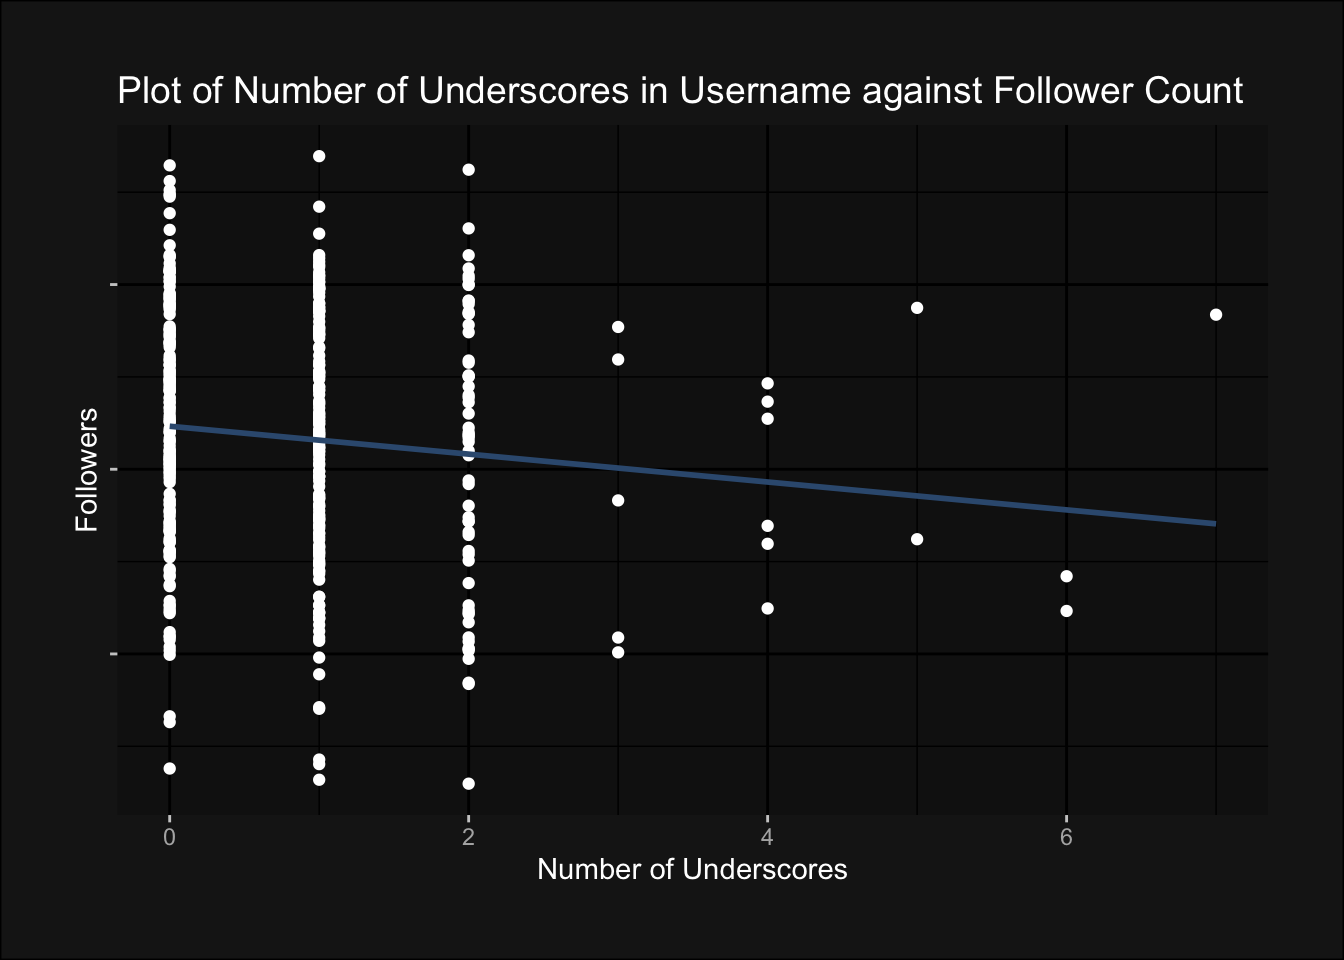
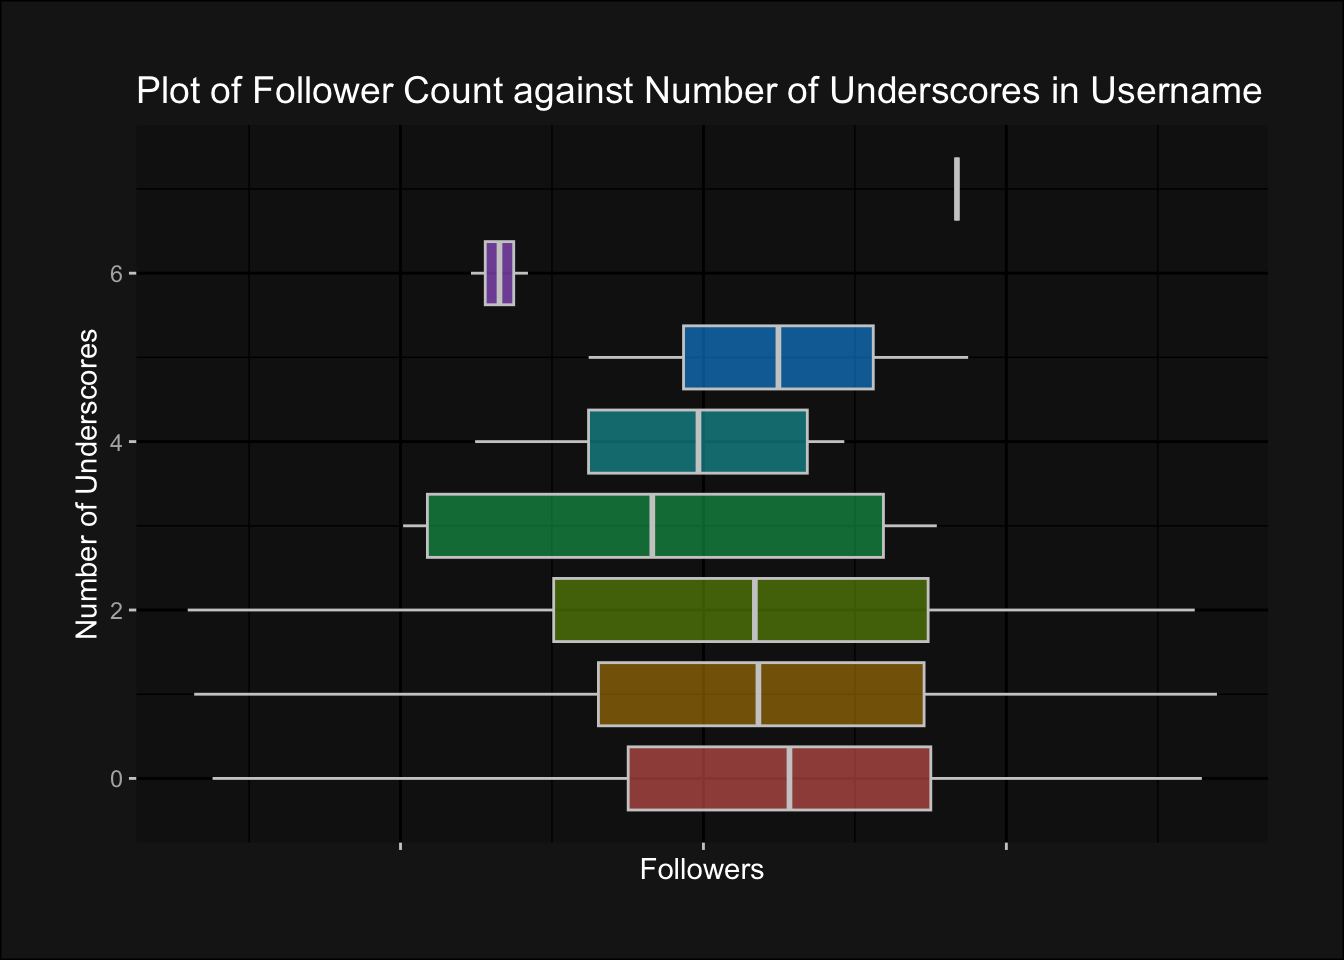
Updates

diff --git a/docs/index.html b/docs/index.html
@@ -90,7 +90,7 @@ ul.task-list li input[type="checkbox"] {
   </li>  
   <li class="nav-item">
     <a class="nav-link" href="./w1w9.html" rel="" target="">
- <span class="menu-text">Week 1 to 9</span></a>
+ <span class="menu-text">Week 1 to 12</span></a>
   </li>  
   <li class="nav-item">
     <a class="nav-link" href="./fun.html" rel="" target="">
@@ -186,6 +186,7 @@ ul.task-list li input[type="checkbox"] {
 <p><img src="index_files/figure-html/unnamed-chunk-3-1.png" class="img-fluid" width="672"></p>
 </div>
 </div>
+<p>Rather than short, snappy or long, winding usernames, we can observe that usernames that are medium length are not only the most popular, but also the most successful usernames.</p>
 </section>
 <section id="digits-and-special-characters" class="level4">
 <h4 class="anchored" data-anchor-id="digits-and-special-characters">Digits and Special Characters</h4>
@@ -194,30 +195,48 @@ ul.task-list li input[type="checkbox"] {
 <ol type="1">
 <li>Numbers</li>
 </ol>
-<div class="cell">
-<div class="cell-output-display">
-<p><img src="index_files/figure-html/unnamed-chunk-4-1.png" class="img-fluid" width="672"></p>
-</div>
-</div>
-<ol start="2" type="1">
-<li>Underscores</li>
-</ol>
 <div class="tabset-margin-container"></div><div class="panel-tabset">
 <ul class="nav nav-tabs" role="tablist"><li class="nav-item" role="presentation"><a class="nav-link active" id="tabset-1-1-tab" data-bs-toggle="tab" data-bs-target="#tabset-1-1" role="tab" aria-controls="tabset-1-1" aria-selected="true">Box Plot</a></li><li class="nav-item" role="presentation"><a class="nav-link" id="tabset-1-2-tab" data-bs-toggle="tab" data-bs-target="#tabset-1-2" role="tab" aria-controls="tabset-1-2" aria-selected="false">Line Plot</a></li></ul>
 <div class="tab-content">
 <div id="tabset-1-1" class="tab-pane active" role="tabpanel" aria-labelledby="tabset-1-1-tab">
 <div class="cell">
 <div class="cell-output-display">
+<p><img src="index_files/figure-html/unnamed-chunk-4-1.png" class="img-fluid" width="672"></p>
+</div>
+</div>
+<p>The differences in range between the box plot for each group of a number of digits inform us that the sample sizes differ greatly, and have possibly heavily skewed the medians for the groups. Hence, we can look at a line plot instead on the next tab.</p>
+</div>
+<div id="tabset-1-2" class="tab-pane" role="tabpanel" aria-labelledby="tabset-1-2-tab">
+<div class="cell">
+<div class="cell-output-display">
 <p><img src="index_files/figure-html/unnamed-chunk-5-1.png" class="img-fluid" width="672"></p>
 </div>
 </div>
+<p>Observing the almost straight line of best fit, we can now conclude that the number of digits in a username has little bearing on the number of followers.</p>
 </div>
-<div id="tabset-1-2" class="tab-pane" role="tabpanel" aria-labelledby="tabset-1-2-tab">
+</div>
+</div>
+<ol start="2" type="1">
+<li>Underscores</li>
+</ol>
+<div class="tabset-margin-container"></div><div class="panel-tabset">
+<ul class="nav nav-tabs" role="tablist"><li class="nav-item" role="presentation"><a class="nav-link active" id="tabset-2-1-tab" data-bs-toggle="tab" data-bs-target="#tabset-2-1" role="tab" aria-controls="tabset-2-1" aria-selected="true">Box Plot</a></li><li class="nav-item" role="presentation"><a class="nav-link" id="tabset-2-2-tab" data-bs-toggle="tab" data-bs-target="#tabset-2-2" role="tab" aria-controls="tabset-2-2" aria-selected="false">Line Plot</a></li></ul>
+<div class="tab-content">
+<div id="tabset-2-1" class="tab-pane active" role="tabpanel" aria-labelledby="tabset-2-1-tab">
 <div class="cell">
 <div class="cell-output-display">
 <p><img src="index_files/figure-html/unnamed-chunk-6-1.png" class="img-fluid" width="672"></p>
 </div>
 </div>
+<p>The box plots for this comparison is noticeably skewed by small sample size as well, as observed by the much smaller box (ie. the singular account) with seven underscores and the few accounts with six. In this case, comparing medians is again inaccurate; we can instead look to a line plot in the next tab.</p>
+</div>
+<div id="tabset-2-2" class="tab-pane" role="tabpanel" aria-labelledby="tabset-2-2-tab">
+<div class="cell">
+<div class="cell-output-display">
+<p><img src="index_files/figure-html/unnamed-chunk-7-1.png" class="img-fluid" width="672"></p>
+</div>
+</div>
+<p>This line plot now reveals the number of underscores in a username to be inversely correlated to their follower count.</p>
 </div>
 </div>
 </div>
@@ -226,71 +245,70 @@ ul.task-list li input[type="checkbox"] {
 </ol>
 <div class="cell">
 <div class="cell-output-display">
-<p><img src="index_files/figure-html/unnamed-chunk-7-1.png" class="img-fluid" width="672"></p>
+<p><img src="index_files/figure-html/unnamed-chunk-8-1.png" class="img-fluid" width="672"></p>
 </div>
 </div>
+<p>As for periods, the box plots for each group is similar, but usernames with no periods have a marginally higher median follower count.</p>
+<p>We can conclude, in this section, that a medium length username without underscores or periods are likely to be popular usernames. The next section will focus on the actual words used in usernames.</p>
 </section>
 <section id="keywords" class="level4">
 <h4 class="anchored" data-anchor-id="keywords">Keywords</h4>
-<p>Lastly, how accurately one’s username portrays their idol persona may also play a part in accruing followers. I hence look at several variations of showing one’s identity in usernames.</p>
+<p>How accurately one’s username portrays their idol persona may also play a part in accruing followers. I hence look at several variations of showing one’s identity in usernames.</p>
 <ol type="1">
-<li>Legit-ness: The inclusion of “official”</li>
-</ol>
-<div class="cell">
-<div class="cell-output-display">
-<p><img src="index_files/figure-html/unnamed-chunk-9-1.png" class="img-fluid" width="672"></p>
-</div>
-</div>
-<ol start="2" type="1">
-<li>Loyalty: The inclusion of one’s group name</li>
+<li>Legitimacy: The inclusion of “official”</li>
 </ol>
 <div class="cell">
 <div class="cell-output-display">
 <p><img src="index_files/figure-html/unnamed-chunk-10-1.png" class="img-fluid" width="672"></p>
 </div>
 </div>
-<ol start="3" type="1">
-<li>Legend: The inclusion of one’s stage name</li>
+<p>Adding the word “official” to one’s username may help separate an idol’s account from their fanpages, but it remains an unpopular choice overall, possibly due to more robust verification methods like the check mark. Its unnecessariness may render usernames without the addition of “official” more popular.</p>
+<ol start="2" type="1">
+<li>Loyalty: The inclusion of one’s group name</li>
 </ol>
 <div class="cell">
 <div class="cell-output-display">
 <p><img src="index_files/figure-html/unnamed-chunk-11-1.png" class="img-fluid" width="672"></p>
 </div>
 </div>
-<p>Perhaps, the reason why these identity features have little effect on follower counts is because idols simply do not need their usernames to express themselves. Rather, they are more well known by their real life traits that then translate into online fame.</p>
-</section>
-</section>
-<section id="the-perfect-idol" class="level2">
-<h2 class="anchored" data-anchor-id="the-perfect-idol">The Perfect Idol</h2>
-<section id="gender-and-age" class="level4">
-<h4 class="anchored" data-anchor-id="gender-and-age">Gender and Age</h4>
-<div class="tabset-margin-container"></div><div class="panel-tabset">
-<ul class="nav nav-tabs" role="tablist"><li class="nav-item" role="presentation"><a class="nav-link active" id="tabset-2-1-tab" data-bs-toggle="tab" data-bs-target="#tabset-2-1" role="tab" aria-controls="tabset-2-1" aria-selected="true">Gender</a></li><li class="nav-item" role="presentation"><a class="nav-link" id="tabset-2-2-tab" data-bs-toggle="tab" data-bs-target="#tabset-2-2" role="tab" aria-controls="tabset-2-2" aria-selected="false">Age</a></li></ul>
-<div class="tab-content">
-<div id="tabset-2-1" class="tab-pane active" role="tabpanel" aria-labelledby="tabset-2-1-tab">
+<p>Similarly, one’s group name helps to highlight one’s band and differentiate from other celebrities who may share names, a fairly common occurrence in Korea. However, as observed, these have little effect on follower counts.</p>
+<ol start="3" type="1">
+<li>Legend: The inclusion of one’s stage name</li>
+</ol>
 <div class="cell">
 <div class="cell-output-display">
 <p><img src="index_files/figure-html/unnamed-chunk-12-1.png" class="img-fluid" width="672"></p>
 </div>
 </div>
-</div>
-<div id="tabset-2-2" class="tab-pane" role="tabpanel" aria-labelledby="tabset-2-2-tab">
+<p>Similarly, the median follower counts of idols who use or omit their stage names in their usernames are comparable.</p>
+<p>We can conclude the analysis of usernames with the finding that, still, the factors that affect follower counts the most seem to be username length and conciseness, with special characters being generally disfavoured or having no effect and extraneous words like “official” being superfluous additions that may hinder, rather than attract, gaining followers.</p>
+<p>Perhaps, the reason why these identity features have little effect on follower counts is because idols simply do not need their usernames to explicitly mention who they are. Rather, they are more well known by their real life traits that then translate into online fame.</p>
+</section>
+</section>
+<section id="the-perfect-idol" class="level2">
+<h2 class="anchored" data-anchor-id="the-perfect-idol">The Perfect Idol</h2>
+<p>We hence move on to analysing other characteristics to find out which ones translate to the most Instagram fame.</p>
+<section id="gender-age-and-seniority" class="level4">
+<h4 class="anchored" data-anchor-id="gender-age-and-seniority">Gender, Age, and Seniority</h4>
+<div class="tabset-margin-container"></div><div class="panel-tabset">
+<ul class="nav nav-tabs" role="tablist"><li class="nav-item" role="presentation"><a class="nav-link active" id="tabset-3-1-tab" data-bs-toggle="tab" data-bs-target="#tabset-3-1" role="tab" aria-controls="tabset-3-1" aria-selected="true">Gender</a></li><li class="nav-item" role="presentation"><a class="nav-link" id="tabset-3-2-tab" data-bs-toggle="tab" data-bs-target="#tabset-3-2" role="tab" aria-controls="tabset-3-2" aria-selected="false">Age</a></li></ul>
+<div class="tab-content">
+<div id="tabset-3-1" class="tab-pane active" role="tabpanel" aria-labelledby="tabset-3-1-tab">
 <div class="cell">
 <div class="cell-output-display">
 <p><img src="index_files/figure-html/unnamed-chunk-13-1.png" class="img-fluid" width="672"></p>
 </div>
 </div>
+<p>Despite there being less male idols on Instagram, they have much higher median numbers of followers. This follows overall industry trends where fans of male artists generally outnumber female artists’, and male groups attain higher sales figures, whether in albums, concert tickets, or merchandise (Dong, 2020).</p>
 </div>
-</div>
-</div>
-<div class="cell">
-<div class="cell-output-display">
-<p><img src="index_files/figure-html/unnamed-chunk-14-1.png" class="img-fluid" width="672"></p>
-</div>
-</div>
+<div id="tabset-3-2" class="tab-pane" role="tabpanel" aria-labelledby="tabset-3-2-tab">
 <div class="cell">
 <div class="cell-output-display">
 <p><img src="index_files/figure-html/unnamed-chunk-15-1.png" class="img-fluid" width="672"></p>
+</div>
+</div>
+<p>The K-pop industry, having been steadily growing since its beginning in 1992, now has musicians across a wide age range (Romano, 2018). Although the few idols with the most followers overall are generally in the middle of the age range, the saturation in that age range with many more idols with much lower follower counts mean that generally, the oldest idols are still more likely to have more followers.</p>
+</div>
 </div>
 </div>
 <div class="cell">
@@ -298,14 +316,45 @@ ul.task-list li input[type="checkbox"] {
 <p><img src="index_files/figure-html/unnamed-chunk-16-1.png" class="img-fluid" width="672"></p>
 </div>
 </div>
+<p>Indeed, a similar trend can be observed between follower counts and seniority as an idol, where the longer the average idol has been active in the industry, the higher their follower counts.</p>
+<p>Interestingly, a high point and dip can be observed consecutively between from 0 to 3 years of seniority. This can be attributed to the impact of the COVID-19 pandemic on the industry, where a slump severely impacted and postponed most idols’ debuts. Subsequently, these long-awaited debuts received much greater attention, represented in their high numbers of followers.</p>
+</section>
+<section id="nationality" class="level4">
+<h4 class="anchored" data-anchor-id="nationality">Nationality</h4>
 <div class="cell">
 <div class="cell-output-display">
 <p><img src="index_files/figure-html/unnamed-chunk-17-1.png" class="img-fluid" width="672"></p>
 </div>
 </div>
+<p>People also come from a diversity of locations to South Korea seek a career in their booming music industry. While South Korean idols are the majority, their foreign counterparts may stand out more precisely because they are a minority; their multilingual statuses as global idols garner them significantly more followers, especially those from their home countries, than the average South Korean idol.</p>
+</section>
+<section id="company" class="level4">
+<h4 class="anchored" data-anchor-id="company">Company</h4>
+<div class="tabset-margin-container"></div><div class="panel-tabset">
+<ul class="nav nav-tabs" role="tablist"><li class="nav-item" role="presentation"><a class="nav-link active" id="tabset-4-1-tab" data-bs-toggle="tab" data-bs-target="#tabset-4-1" role="tab" aria-controls="tabset-4-1" aria-selected="true">The Big 4</a></li><li class="nav-item" role="presentation"><a class="nav-link" id="tabset-4-2-tab" data-bs-toggle="tab" data-bs-target="#tabset-4-2" role="tab" aria-controls="tabset-4-2" aria-selected="false">Within the Big 4</a></li></ul>
+<div class="tab-content">
+<div id="tabset-4-1" class="tab-pane active" role="tabpanel" aria-labelledby="tabset-4-1-tab">
+<div class="cell">
+<div class="cell-output-display">
+<p><img src="index_files/figure-html/unnamed-chunk-18-1.png" class="img-fluid" width="672"></p>
+</div>
+</div>
+<p>The final, and perhaps one of the most decisive factors in an idol’s fame online and offline, is their company. Kelley’s (2018) “Big 3 Hierarchy”, composed of SM Entertainment, YG Entertainment, and JYP Entertainment, are prestigious companies whose long legacies producing idols from the earliest generations of K-pop guarantee their newest groups as much, or even more, success. However, Kang (2018) notes the meteoric rise of a fourth player: Big Hit Entertainment, home to BTS, unsettling the traditional ranking of companies. I have hence included them into this order of notable companies to form a “Big 4”.</p>
+<p>The gap between the “Big 4” and other companies has been demonstrated in the plot, where the small number of idols belonging to the biggest companies enjoy much greater levels of support on Instagram through larger followings.</p>
+</div>
+<div id="tabset-4-2" class="tab-pane" role="tabpanel" aria-labelledby="tabset-4-2-tab">
+<div class="cell">
+<div class="cell-output-display">
+<p><img src="index_files/figure-html/unnamed-chunk-19-1.png" class="img-fluid" width="672"></p>
+</div>
+</div>
+<p>The plot of follower counts against their companies within the Big 4 reflects the rise of Big Hit Entertainment, as small as they are in size, as a disruptive force to the industry. It places the company and future debuts from them in good stead, considering the future of K-pop where wide social media presences are becoming as necessary as perfect stage performances.</p>
+</div>
+</div>
+</div>
 <iframe height="400" width="100%" frameborder="no" src="https://licnim.shinyapps.io/ig_generator/" <="" iframe="">
 <div id="quarto-navigation-envelope" class="hidden">
-<p><span class="hidden" data-render-id="quarto-int-sidebar-title">licnim.github.io</span> <span class="hidden" data-render-id="quarto-int-navbar-title">licnim.github.io</span> <span class="hidden" data-render-id="quarto-int-navbar:Project Page">Project Page</span> <span class="hidden" data-render-id="quarto-int-navbar:/index.html">/index.html</span> <span class="hidden" data-render-id="quarto-int-navbar:About Me">About Me</span> <span class="hidden" data-render-id="quarto-int-navbar:/about.html">/about.html</span> <span class="hidden" data-render-id="quarto-int-navbar:Week 1 to 9">Week 1 to 9</span> <span class="hidden" data-render-id="quarto-int-navbar:/w1w9.html">/w1w9.html</span> <span class="hidden" data-render-id="quarto-int-navbar:Bored?">Bored?</span> <span class="hidden" data-render-id="quarto-int-navbar:/fun.html">/fun.html</span></p>
+<p><span class="hidden" data-render-id="quarto-int-sidebar-title">licnim.github.io</span> <span class="hidden" data-render-id="quarto-int-navbar-title">licnim.github.io</span> <span class="hidden" data-render-id="quarto-int-navbar:Project Page">Project Page</span> <span class="hidden" data-render-id="quarto-int-navbar:/index.html">/index.html</span> <span class="hidden" data-render-id="quarto-int-navbar:About Me">About Me</span> <span class="hidden" data-render-id="quarto-int-navbar:/about.html">/about.html</span> <span class="hidden" data-render-id="quarto-int-navbar:Week 1 to 12">Week 1 to 12</span> <span class="hidden" data-render-id="quarto-int-navbar:/w1w9.html">/w1w9.html</span> <span class="hidden" data-render-id="quarto-int-navbar:Bored?">Bored?</span> <span class="hidden" data-render-id="quarto-int-navbar:/fun.html">/fun.html</span></p>
 </div>
 <div id="quarto-meta-markdown" class="hidden">
 <p><span class="hidden" data-render-id="quarto-metatitle">licnim.github.io - What’s in a (user)name?</span> <span class="hidden" data-render-id="quarto-twittercardtitle">licnim.github.io - What’s in a (user)name?</span> <span class="hidden" data-render-id="quarto-ogcardtitle">licnim.github.io - What’s in a (user)name?</span> <span class="hidden" data-render-id="quarto-metasitename">licnim.github.io</span> <span class="hidden" data-render-id="quarto-twittercarddesc">A two-part analysis of K-pop idols’ Instagram follower counts and a derivative interactive app.</span> <span class="hidden" data-render-id="quarto-ogcardddesc">A two-part analysis of K-pop idols’ Instagram follower counts and a derivative interactive app.</span></p>
